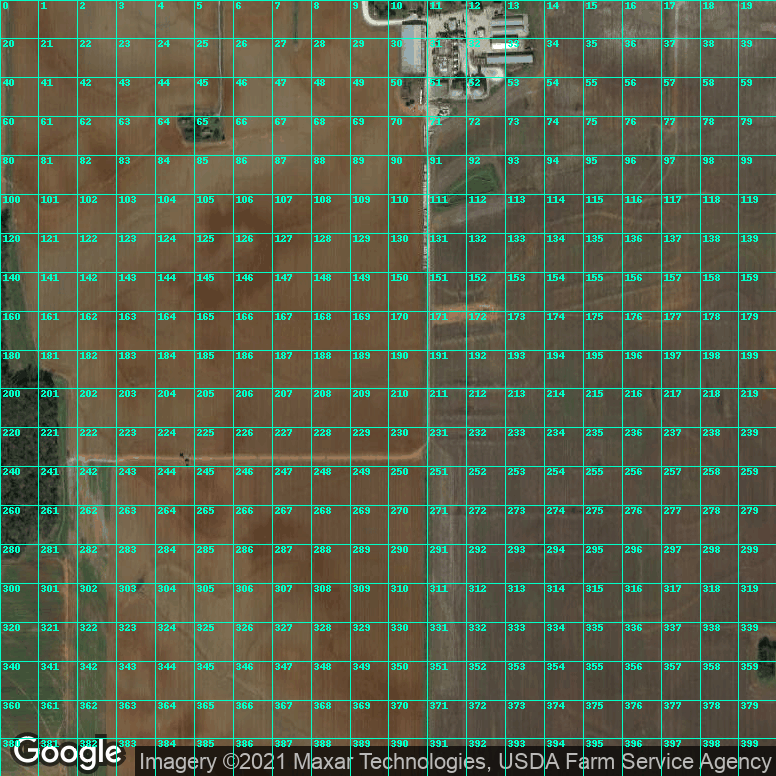
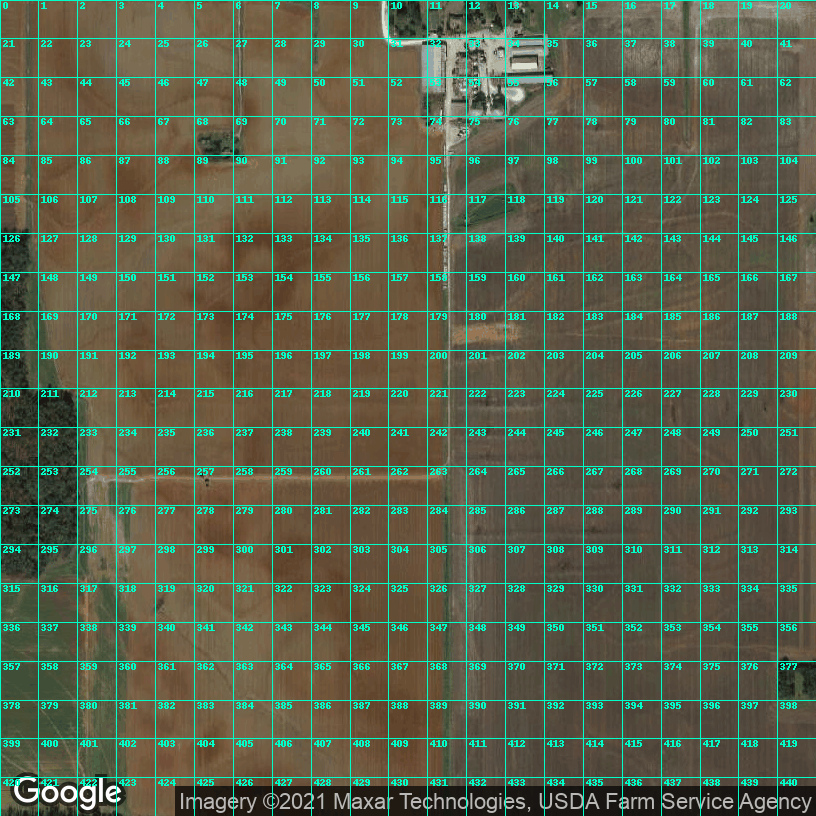
IMU work

diff --git a/IMU_Test/imu_simpletest.py b/IMU_Test/imu_simpletest.py
@@ -34,18 +34,17 @@ last_sample = time.monotonic()
 while True:
     this_sample = time.monotonic()
     if(this_sample - last_sample >= frequency_intv):
-        print(f"Sample Time:{last_sample-this_sample}")
+        print(f"Sample Time:{this_sample-last_sample}")
         last_sample = this_sample
-        # print(f"Gyroscope Data:{sensor.gyro}")
-        # print(f"Accelerometer Data:{sensor.acceleration}")
+        print(f"Gyroscope Data:{sensor.gyro}")
+        print(f"Accelerometer Data:{sensor.acceleration}")
         # print(f"Magnetometer Data:{sensor.magnetic}")
         # print("Euler angle: {}".format(sensor.euler))
         #print("Quaternion: {}".format(sensor.quaternion))
-        #print("Linear acceleration (m/s^2): {}".format(sensor.linear_acceleration))
-        #print("Gravity (m/s^2): {}".format(sensor.gravity))
-        print(sensor.calibration_status)
+        print(f"Linear Acceleration (m/s^2):{sensor.linear_acceleration}")
+        print(f"Gravity (m/s^2):{sensor.gravity}")
+        print(f"Calibration Status:{sensor.calibration_status}")
         print()
-    
 
 """ Notes
 

diff --git a/IMU_Test/skin_tests/sci_kin_test.py b/IMU_Test/skin_tests/sci_kin_test.py
@@ -79,6 +79,15 @@ if __name__ == '__main__':
         print(bno.calibration_status)
     print("Calibrated!")
 
+    # Initial orientation step (using magnetometer to get orientation from North)
+    deg_N = 0  # Degrees from North (when on launchpad)
+    init_orient = R.from_euler('zyx', [deg_N,90,0], degrees=True).as_matrix()   # Yaw, Pitch, Roll
+    print(type(init_orient))
+    print(init_orient)
+    # initial_orient = np.array([[1,0,0],
+    #                            [0,1,0],
+    #                            [0,0,1]])
+
     time.sleep(3)
 
     data = {"Acc_X":[],
@@ -123,13 +132,6 @@ if __name__ == '__main__':
     
     print("Wrote data!\n")
 
-    deg_N = 0  # Degrees from North (when on launchpad)
-    init_orient = R.from_euler('zyx', [deg_N,90,0], degrees=True).as_matrix()   # Yaw, Pitch, Roll
-    print(type(init_orient))
-    print(init_orient)
-    # initial_orient = np.array([[1,0,0],
-    #                            [0,1,0],
-    #                            [0,0,1]])
     bno = XSens(in_file='bno_data.txt', R_init=init_orient)
 
     print("Processed data!\n")

diff --git a/Programs/imager.py b/Programs/imager.py
@@ -18,10 +18,10 @@ def main():
     ### Config
     filename = "pyra-grid"
     grid_itv = 76.2                     # Grid space intervals (meters)
-    lat, lon = 34.895444, -86.617000 #38.649007,-90.310687     # Latitude, longitude
+    lat, lon = 34.895444, -86.617000    # 38.649007,-90.310687     # Latitude, longitude
     maptype = 'satellite'               # Image type
     markers = ''                        # Optional image markers
-    max_mapsize = 1524                  # Max length of map (meters)
+    max_mapsize = 1600                  # Max length of map (meters)
     scale = 2                           # Resolution of image (max 2)
     zoom = 15                           # Zoom factor (optimal 15)
 
